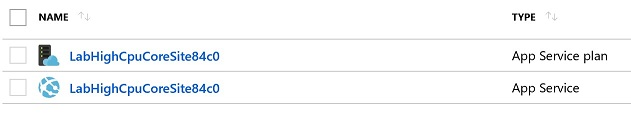
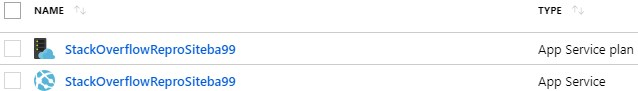
first section

diff --git a/blogs/2019/03/StackOverflowReproSite/index.md b/blogs/2019/03/StackOverflowReproSite/index.md
@@ -1,7 +1,7 @@
 # Workshop - How to Capture Stack Overflow Exception
 ## Environment setup
 
-First of all, click the [Deploy to Azure](https://github.com/4lowTheRabbit/StackOverflowReproSite) button on the README page of [this workshop's GitHub repository](https://github.com/4lowTheRabbit/StackOverflowReproSite).
+First of all, click the [Deploy to Azure](https://github.com/lancenty/StackOverflowReproSite) button on the README page of [this workshop's GitHub repository](https://github.com/lancenty/StackOverflowReproSite).
 
 ![The deploy to azure button](the-deploy-to-azure-button.png)
 
@@ -15,19 +15,15 @@ After the deployment is done, a resource group will be created with the followin
 
 ![Resources](resources.jpg)
 
-In order to repro the high CPU issue in the site, we can browse `/repro/` of the site. It will do an infinite loop, which will cause high CPU on the server, until the page times out. We will see the page is loading long and finally a 500 error page in the browser.
+In order to repro the Stack Overflow exception in the site, we can browse `/Repro/StackOverflow` of the site, or use the StackOverflow tab on top navbar.
 
->Interestingly that the 500 page shows `"The specified CGI application encountered an error and the server terminated the process."`, but actually the dotnet.exe process is not terminated. You can open Kudu and observe its process ID is not changed in Process Explorer. The error message on the page is just too generic to be true, like many others.
+![Repro](repro.jpg)
+
+ It will do an infinite recursion, which will cause the site to crash immediately. We will see the page loading and then 502 error page in the browser.
 
 ![Error Page](error-page.jpg)
 
-To stop the loading page, browse `/repro/disable`, so that it will exit the loop and return immediately. Further requests to the page will return immediately too.
-
-To enable the infinite loop in the page again, we can browse `/repro/enable` and then browse `/repro/`.
-
 The backend code is straight forward. You can read it [here](https://github.com/4lowTheRabbit/LabHighCpuCoreSite/blob/master/LabHighCpuCoreSite/Controllers/ReproController.cs).
-
->Note: Since .Net Core 2.2, the ASP.Net core web application is no longer hosted in dotnet.exe, instead it is hosted [in-process](https://docs.microsoft.com/en-us/aspnet/core/fundamentals/servers/index?view=aspnetcore-2.2&tabs=windows#in-process-hosting-model) in w3wp.exe by default. This is because the original aspNetCore module in web.config has been replaced by the new AspNetCoreModuleV2 module.
 
 ## Profile the .Net core process
 On the Azure portal, in the **"Diagnose and Solve Problems" (DaaS)** blade, in the **"Diagnostic Tools"** tile, let's click **"Profiler"**.
